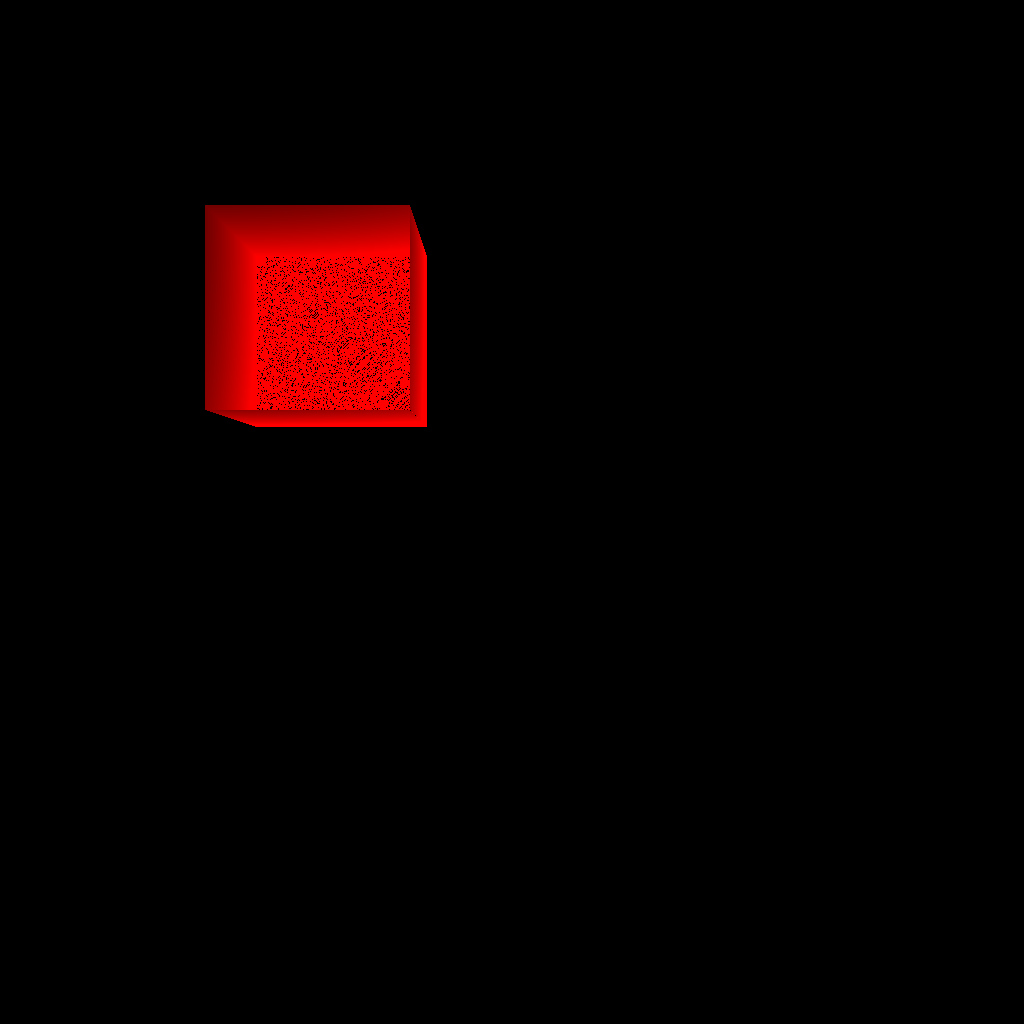
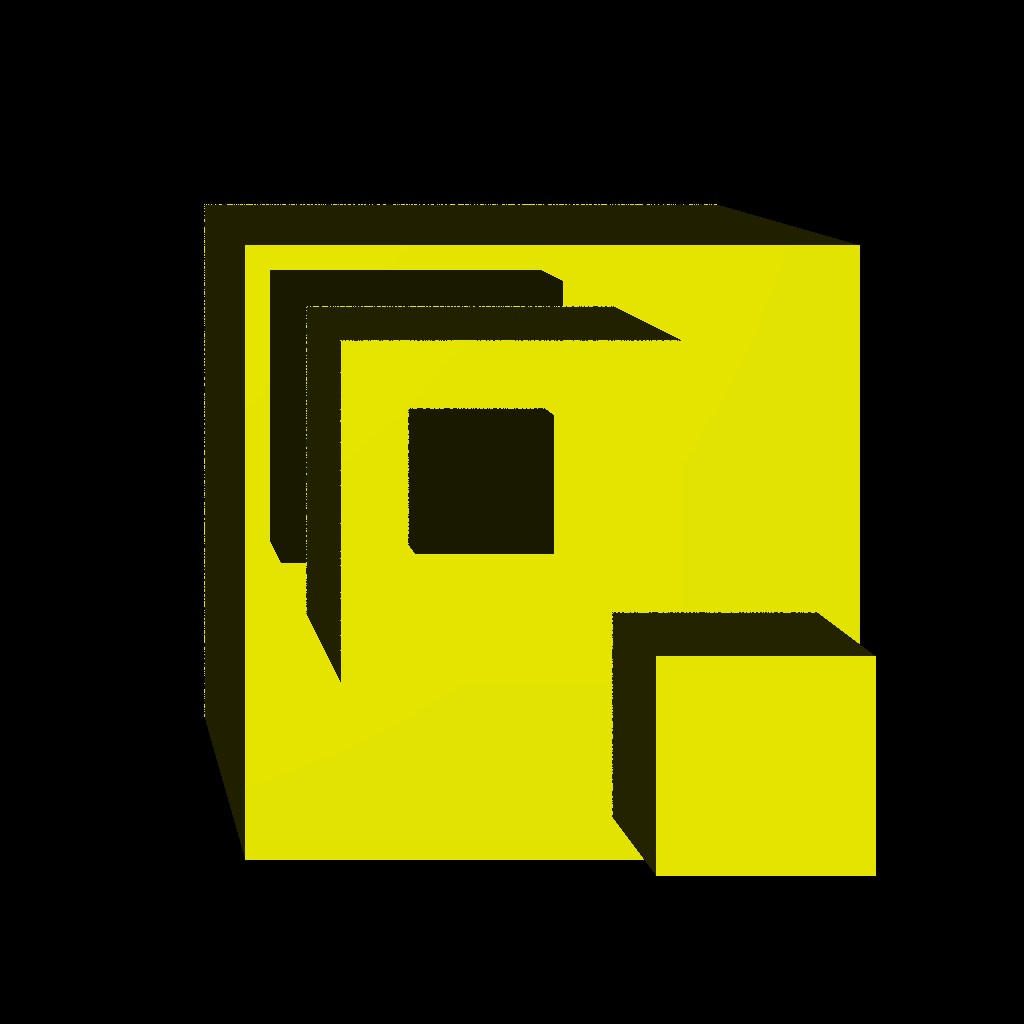
Shadows... Still looks terrible

diff --git a/Source/main.cpp b/Source/main.cpp
@@ -9,6 +9,18 @@
 #define STB_IMAGE_WRITE_IMPLEMENTATION
 #include "stb_image_write.h"
 
+Collision
+find_hit(std::vector<Object *> *scene, Ray ray) {
+    Collision hit, tmp;
+    size_t len = scene->size();
+    for (size_t i = 0; i < len; i++) {
+        tmp = (*scene)[i]->intersect(ray);
+        if (tmp.hit && (!hit.hit || hit.dist > tmp.dist)) {
+            hit = tmp;
+        }
+    }
+    return hit;
+}
 
 void 
 render(int size) {
@@ -23,27 +35,56 @@ render(int size) {
         }
     }
     float size_f = size;
-    Light lamp(Vec(0, 0, size), 1);
+    std::vector<Light> lights = std::vector<Light>();
+    lights.push_back(Light(Vec(0, 0, -size * 5), 0.8));
+    //lights.push_back(Light(Vec(0, 0, 0), 1)); 
+    std::vector<Object*> scene = std::vector<Object*>();
+
+    float me_dist = size * 2;
+    Vec me(0, 0, -me_dist);
+    float side = size_f / 5;
+    float small_side = side / 3;
+    float big_side = size_f / 2;
+
+    Vec shift(size / 5, size / 5, 0);
     
-    Vec me(size_f / 2, size_f / 2, size_f * 2);
-    Rectangle base(Vec(0, 0, 0), Vec(0, 0, size / 3), Vec(size / 3, 0, size / 3), Vec(size / 3, 0, 0));
-    //Pentagon pent(Vec(size / 2, size / 2, 0), Vec(0, size / 2, 0), Vec(0, 0, size / 2));
-    Cube cube(base, Vec(0, size / 3, 0));
+    Rectangle big(Vec(0, 0, size) + shift, Vec(0, big_side, size) + shift, Vec(big_side, big_side, size) + shift, Vec(big_side, 0, size) + shift);
+    Rectangle base(Vec(0, 0, 0) + shift, Vec(0, side, 0) + shift, Vec(side, side, 0) + shift, Vec(side, 0, 0) + shift);
+    Rectangle small(Vec(0, 0, -size) + shift, Vec(0, small_side, -size) + shift, Vec(small_side, small_side, -size) + shift, Vec(small_side, 0, -size) + shift);
+    
+    Cube cube(base);
+    Cube small_cube(small);
+    Cube big_cube(big); 
+    
+    scene.push_back(&cube);
+    scene.push_back(&small_cube);
+    scene.push_back(&big_cube);
+
+    float base_light = 0.1;
     for (int x = 0; x < size; x++) {
         for (int y = 0; y < size; y++) {
             Vec dir = (Vec(x, y, size) - me).normalize();
             Ray ray = Ray(me, dir);
-            float dist = cube.intersect(ray);
-            if (dist > 0) {
-                Vec intersect = me + (dir * dist);
-                Vec light_dir = lamp.pos - intersect;
-                Ray to_light(intersect, light_dir.normalize());
-                if (cube.intersect(to_light) <= 0) {
-                    std::cout << light_dir.len() << '\n';
-                    buffer[x + y * size] = Color((light_dir.len() * light_dir.len()) / (size * size), 0, 0, 1);// / light_dir.len(), 1 / light_dir.len(), 0, 1);
-                } else {
-                    std::cout << cube.intersect(to_light) << '\n';
-                   // buffer[x + y * size] = Color(0.5, 0.5, 0, 1);
+            Collision hit = find_hit(&scene, ray);
+            
+            if (hit.hit) {
+                buffer[x + y * size] = Color(1, 1, 0, 1) * base_light;
+                Vec intersect = me + (dir * hit.dist);
+                for (size_t i = 0; i < lights.size(); i++) {
+                    Vec light_dir = lights[i].pos - intersect;
+                    Ray to_light(intersect, light_dir.normalize());
+                    Collision intersected = find_hit(&scene, to_light);
+                    if (!intersected.hit) {
+                        float angle = abs(dot(light_dir.normalize(), hit.normal.normalize()));
+                        float distance = light_dir.len();
+                        Color add(1, 1, 0);
+                        add = add * angle;
+                        add = add * lights[i].intensity;
+                        buffer[x + y * size] = buffer[x + y * size] + add;
+                    } else {
+                        //std::cout << "no light " << intersected.dist << '\n';
+                    }
+                    
                 }
             }
         }

diff --git a/Lib/geom.h b/Lib/geom.h
@@ -8,6 +8,17 @@ struct Color {
     float b;
     float a;
     Color(float _r = 0, float _g = 0, float _b = 0, float _a = 0) : r(_r), g(_g), b(_b), a(_a) {}
+    const Color operator*(float f) {
+        return Color(r * f, g * f, b * f, a);
+    }
+
+    const Color operator/(float f) {
+        return Color(r / f, g / f, b / f, a);
+    }
+
+    const Color operator+(Color c) {
+        return Color(r + c.r, g + c.g, b + c.b, a);
+    }
 };
 
 struct Vec {
@@ -36,13 +47,20 @@ struct Ray {
     Ray(Vec _pos, Vec _dir) : pos(_pos), dir(_dir) {}
 };
 
+struct Collision {
+    bool hit;
+    float dist;
+    Vec normal;
+    Collision() : hit(false), dist(), normal() {}        
+};
+
 struct Triangle {
     Vec a, b, c;
     Triangle() : a(), b(), c() {}
     Triangle(Vec _a, Vec _b, Vec _c) : a(_a), b(_b), c(_c) {}
 };
 
-float intersect(Triangle, Ray);
+Collision intersect(Triangle, Ray);
 
 struct Object {
     int triangles_number;
@@ -51,7 +69,7 @@ struct Object {
         triangles_number = 0;
         triangles = NULL;
     }
-    float intersect(Ray r);
+    virtual Collision intersect(Ray r);
 };
 
 struct Rectangle : public Object {
@@ -67,43 +85,50 @@ struct Rectangle : public Object {
     const Rectangle operator+(Vec v) {
         return Rectangle(triangles[0].a + v, triangles[0].b + v, triangles[0].c + v, triangles[1].c + v);
     }
+
+    const Rectangle operator-(Vec v) {
+        return Rectangle(triangles[0].a - v, triangles[0].b - v, triangles[0].c - v, triangles[1].c - v);
+    }
+    
 };
 
 struct Cube : public Object {
     int rectangles_number;
     Rectangle *rectangles;
 
-    Cube(Rectangle base, Vec normal) {
-        rectangles_number = 5;
-        
+    Cube(Rectangle base) {
+        rectangles_number = 6;
         rectangles = new Rectangle[rectangles_number];
         rectangles[0] = base;
-        rectangles[1] = rectangles[0] + normal;
+        
+        Vec e1 = base.triangles[0].b - base.triangles[0].a;
+        Vec e2 = base.triangles[0].c - base.triangles[0].b;
+        float side = e1.len();
+        Vec shift = cross(e1, e2).normalize() * side;
+        rectangles[1] = rectangles[0] + shift;
     
-        
         Vec a(rectangles[0].triangles[0].a);
-        Vec b(rectangles[0].triangles[0].b);
-        Vec c = a + normal;
-        Vec d = b + normal;
-        rectangles[2] = Rectangle(a, b, d, c);
-        Vec shift = rectangles[0].triangles[0].c - b;
-        rectangles[3] = rectangles[2] + shift;
+        Vec b = a + shift;
+        Vec c = b + e1;
+        Vec d = a + e1;
         
-        shift = b - a;
-        b = c;
-        d = rectangles[0].triangles[1].c;
-        c = d + normal;
+        rectangles[2] = Rectangle(a, b, c, d);
+        rectangles[3] = rectangles[2] + e2;
+        
+        c = b + e2;
+        d = a + e2;
         rectangles[4] = Rectangle(a, b, c, d);
-        rectangles[5] = rectangles[4] + shift;
-
+        rectangles[5] = rectangles[4] + e1;
     }
 
-    float intersect(Ray ray) {
-        float res = 0;
+    Collision intersect(Ray ray) {
+        Collision res, tmp;
         for (int i = 0; i < rectangles_number; i++) {
-            float dist = rectangles[i].intersect(ray);
-            if (dist != 0 && (res == 0 || dist <= res)) {
-                res = dist;
+            tmp = rectangles[i].intersect(ray);
+            if (tmp.hit) {
+                if (!res.hit || res.dist > tmp.dist) {
+                    res = tmp;
+                }
             }
         }
         return res;

diff --git a/Source/geom.cpp b/Source/geom.cpp
@@ -34,8 +34,10 @@ Vec rotateAroundAxis(Vec vector, Vec axis, float angle) {
     return res;
 }
 
-float
+Collision
 intersect(Triangle t, Ray r) {
+    Collision res;
+
     Vec e1 = t.b - t.a;
     Vec e2 = t.c - t.a;
     // normal vector
@@ -44,37 +46,46 @@ intersect(Triangle t, Ray r) {
 
     // || ploskosti
     if (det < 1e-8 && det > -1e-8) {
-        return 0;
+        return res;
     }
 
     float inv_det = 1 / det;
     Vec tvec = r.pos - t.a;
     float u = dot(tvec, pvec) * inv_det;
     if (u < 0 || u > 1) {
-        return 0;
+        return res;
     }
 
     Vec qvec = cross(tvec, e1);
     float v = dot(r.dir, qvec) * inv_det;
 
     if (v < 0 || u + v > 1) {
-        return 0;
+        return res;
     }
-
-    return dot(e2, qvec) * inv_det;
+    
+    res.hit = true;
+    res.dist = dot(e2, qvec) * inv_det;
+   // res.dist = abs(res.dist);
+    res.normal = cross(e1, e2);
+    if (res.dist < 1e-3) {
+       // std::cout << "negative or small" << '\n';
+        res.hit = false;
+    }
+    return res;
 }
 
-float
+Collision
 Object::intersect(Ray ray) {
+    Collision res, tmp;
     if (!triangles) {
-        return 0;
+        return res;
     }
-    float res = 0;
     for (int i = 0; i < triangles_number; i++) {
-        float dist = ::intersect(triangles[i], ray);
-        if (dist > 0 && (res == 0 || dist < res)) {
-            res = dist;
+        tmp = ::intersect(triangles[i], ray);
+        if (tmp.hit && (!res.hit || res.dist > tmp.dist)) {
+            res = tmp;
         }
     }
     return res;
 }
+
